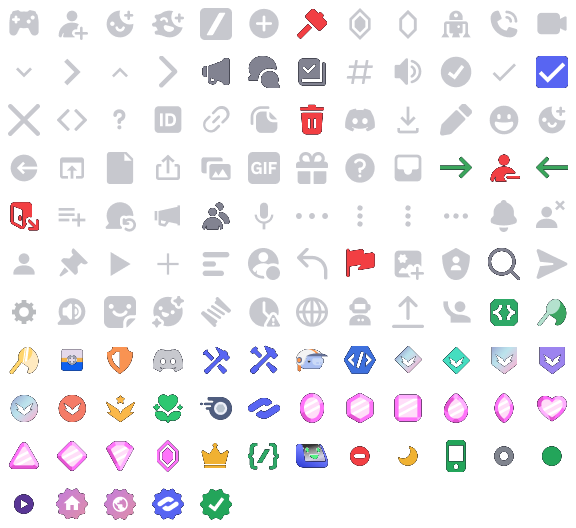
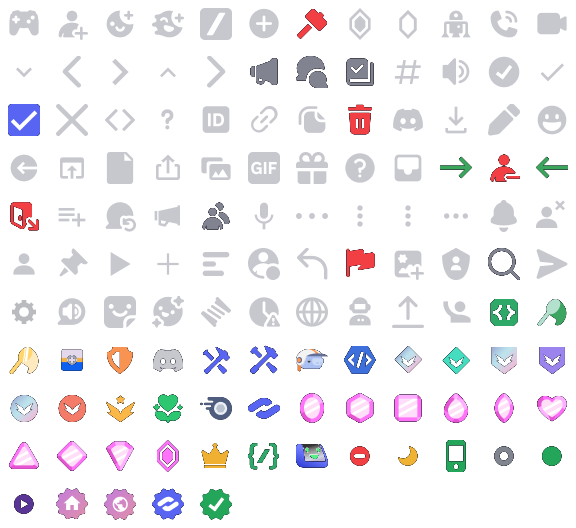
Stop a keystroke re-parsing every message on the canvas
The memo added with the atlas was doing nothing, and the profile said so: the
markdown parser was 11.7% of samples during a typing burst with 150 messages
open, which is every message re-parsing on every character. The canvas took its
select handler as an inline arrow, so it was a new function on every render of
the builder, reached every row as a changed prop, and made the comparison
useless. It is a stable callback now.

Measured through the DevTools protocol rather than a wall clock, since
Playwright's own IPC swamps the difference:

  40 messages   8.8ms -> 5.0ms of script per keystroke
  150 messages  22.5ms -> 7.1ms

The parser no longer appears in the profile at all, and idle over the burst
goes from 46% to 65%.

Two icons were wearing the wrong name. The tile shipped as `emoji` was
byte-identical to `add-reaction` -- a smiley with a plus, which is the reaction
button and not the composer's -- while the plain smiley was under
`emoji-animated`. They are named for what they are now. And the phone's back
control pointed forwards; the library only ships the forward chevron, so it is
mirrored the way the leave arrow is, rather than swapped for a different glyph.

Claude-Session: https://claude.ai/code/session_01BxmpyPQNLr2GZwYUFqXQoU

diff --git a/src/editor/builder.jsx b/src/editor/builder.jsx
@@ -320,6 +320,15 @@ export function Builder({ user, canSignIn = true, shared = null }) {
     [project.messages, selected],
   );
 
+  /* Stable, and it matters more than it looks. Written inline this was a new
+     function on every render, which reached every message on the canvas as a
+     changed prop and made the memo on the row useless — so a keystroke
+     re-parsed every markdown tree in the mockup. */
+  const pickOnCanvas = useCallback((id) => {
+    setSelected(id);
+    setSheetOpen(null);
+  }, []);
+
   const patchMessage = useCallback(
     (over) => {
       if (!message) return;
@@ -1012,10 +1021,7 @@ export function Builder({ user, canSignIn = true, shared = null }) {
                 <DiscordSurface
                   project={project}
                   selectedId={message?.id}
-                  onSelect={(id) => {
-                    setSelected(id);
-                    setSheetOpen(null);
-                  }}
+                  onSelect={pickOnCanvas}
                   innerRef={stage}
                 />
               </div>

diff --git a/src/discord/surface.jsx b/src/discord/surface.jsx
@@ -76,7 +76,7 @@ function ChannelHeader({ canvas, mobile }) {
   if (mobile) {
     return (
       <header className="dc-m-head" aria-hidden="true">
-        <Icon name="caret" size={22} className="dc-m-back" />
+        <Icon name="caret-left" size={22} className="dc-m-back" />
         <Icon name="channel-text" size={20} className="dc-hash" />
         <span className="dc-m-head-name">{canvas.channel?.name || "general"}</span>
         <span className="dc-m-head-tools">

diff --git a/DESIGN-SOURCES.md b/DESIGN-SOURCES.md
@@ -56,6 +56,42 @@ possible mockup matches every rollout, operating system, density setting or
 feature flag. This is a visual editor, not the Discord client, and custom
 spacing and mixed content stay intentionally editable.
 
+## Performance
+
+Two things were making a large mockup heavier than it needed to be, and both
+were measured rather than guessed.
+
+**Images.** The icon library is 125 tiles, and a canvas draws forty of them at
+a time. Separately that is 125 requests, 125 decodes and 125 GPU textures for
+artwork that never changes; as one atlas it is one of each, 46KB, cached for a
+year. The atlas is preloaded so it is in flight with the document rather than
+after the stylesheet has been parsed, and the Twemoji CDN is preconnected so
+the first emoji a mockup draws is not also a DNS lookup and a TLS handshake.
+Emoji decode off the main thread and load lazily; so do the 240 avatars in the
+picker.
+
+The trade-off in a CSS mask is real — [Cloud Four's stress
+test](https://cloudfour.com/thinks/svg-icon-stress-test/) found masking the
+slowest of the icon techniques at a thousand icons on one page. That is not
+this: forty glyphs at a time, and the alternative is baking a copy of every
+icon per colour state, which loses the hover and the destructive red. One
+decoded atlas serving all of them is the cheaper end of that trade.
+
+**Typing.** A keystroke in the content field re-parsed the markdown of every
+message on the canvas. Three things caused it: each row was handed a freshly
+constructed click closure, the render context carried the whole message list so
+any edit invalidated every consumer, and the row was not memoised. All three
+are fixed — one handler for the stream that reads the id off the row, replies
+resolved on the way past instead of out of context, and `memo` on the row. In
+a Chrome CPU profile the markdown parser was 11.7% of samples during a typing
+burst and is now absent from it. Script time per keystroke, measured through
+the DevTools protocol rather than a wall clock:
+
+| messages on canvas | before | after |
+| --- | --- | --- |
+| 40 | 8.8 ms | 5.0 ms |
+| 150 | 22.5 ms | 7.1 ms |
+
 ## The editor
 
 - **Tokens, appearance, header and controls** are ported from the 2026 landing
